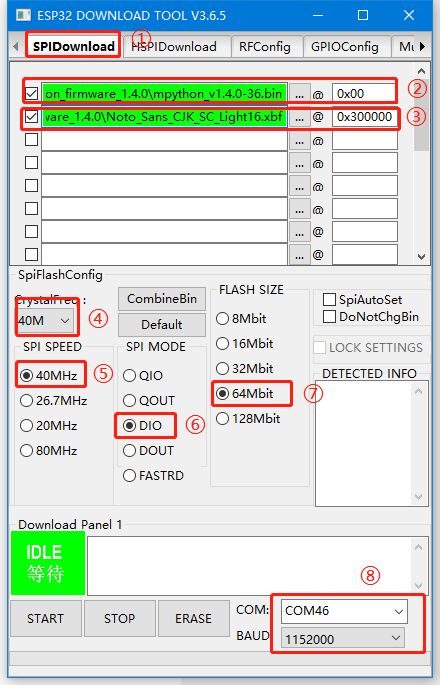
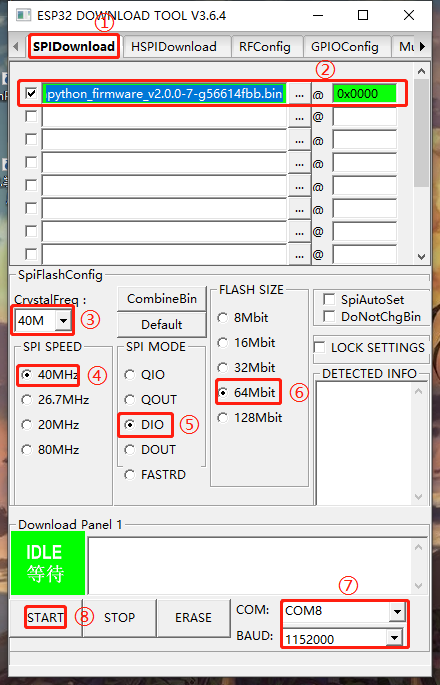
更新烧录章节说明

Changed region(s): [[0.0, 0.0, 1.0, 1.0], [0.2659, 0.3985, 0.2955, 0.4599]]

diff --git a/docs/board/flashburn.rst b/docs/board/flashburn.rst
@@ -2,7 +2,7 @@
 ====================
 
 
-* 烧录工具使用乐鑫官网提供的 `flash下载软件 <https://www.espressif.com/zh-hans/support/download/other-tools>`_。
+* 烧录工具使用乐鑫官网提供的 `Flash下载软件 <https://www.espressif.com/zh-hans/support/download/other-tools>`_。
 * 掌控板固件可到 :ref:`掌控固件发布<release>` 章节获取。
 
 ---------
@@ -11,17 +11,19 @@
 
 .. image:: /images/flashburn/flashDownload_1.png
 
-选择 **SPIDownload** ，然后浏览并选中刚下载的掌控板固件mpython_v1.3.0.bin，并设置地址是0x00。浏览并选中字库Noto_Sans_CJK_SC_Light16.xbf，并设置0x300000。
+选择 **SPIDownload** ，然后浏览并选中刚下载的掌控板固件mpython_v2.0.0.bin，并设置地址是0x00。
 将CrystallFreq设为40M，SPI SPEED 设为40MHz，SPI MODE设为DIO，FLASH SIZE改为64MBit，串口号设置为实际串口，波特率1152000。
 
 .. Caution:: 
 
     * v1.1.1以后的固件版本,firmware烧录起始地址改为0x00!
-    * v1.5.0以后的固件版本,集成Noto字库!
+    * v1.5.0以后的固件版本,集成Noto字库!v1.5.0以前固件或者需要重刷字库的,可以在Flash Tool上选中字库Noto_Sans_CJK_SC_Light16.xbf，并设置0x400000烧录,方法同固件烧录方法一样。
 
 .. image:: /images/flashburn/flashDownload_2.png
 
-点击START，掌控板同时按下a，b键持续2秒后松开，此时掌控板将进入Download模式。固件下载中，如下图。
+点击START，此时掌控板将进入Download模式。固件下载中，如下图。
+
+.. Hint:: 掌控板硬件版本v1.0.1前的,须要同时按下a，b键持续2秒后松开,手动进入Download模式
 
 .. image:: /images/flashburn/flashDownload_3.png
 
